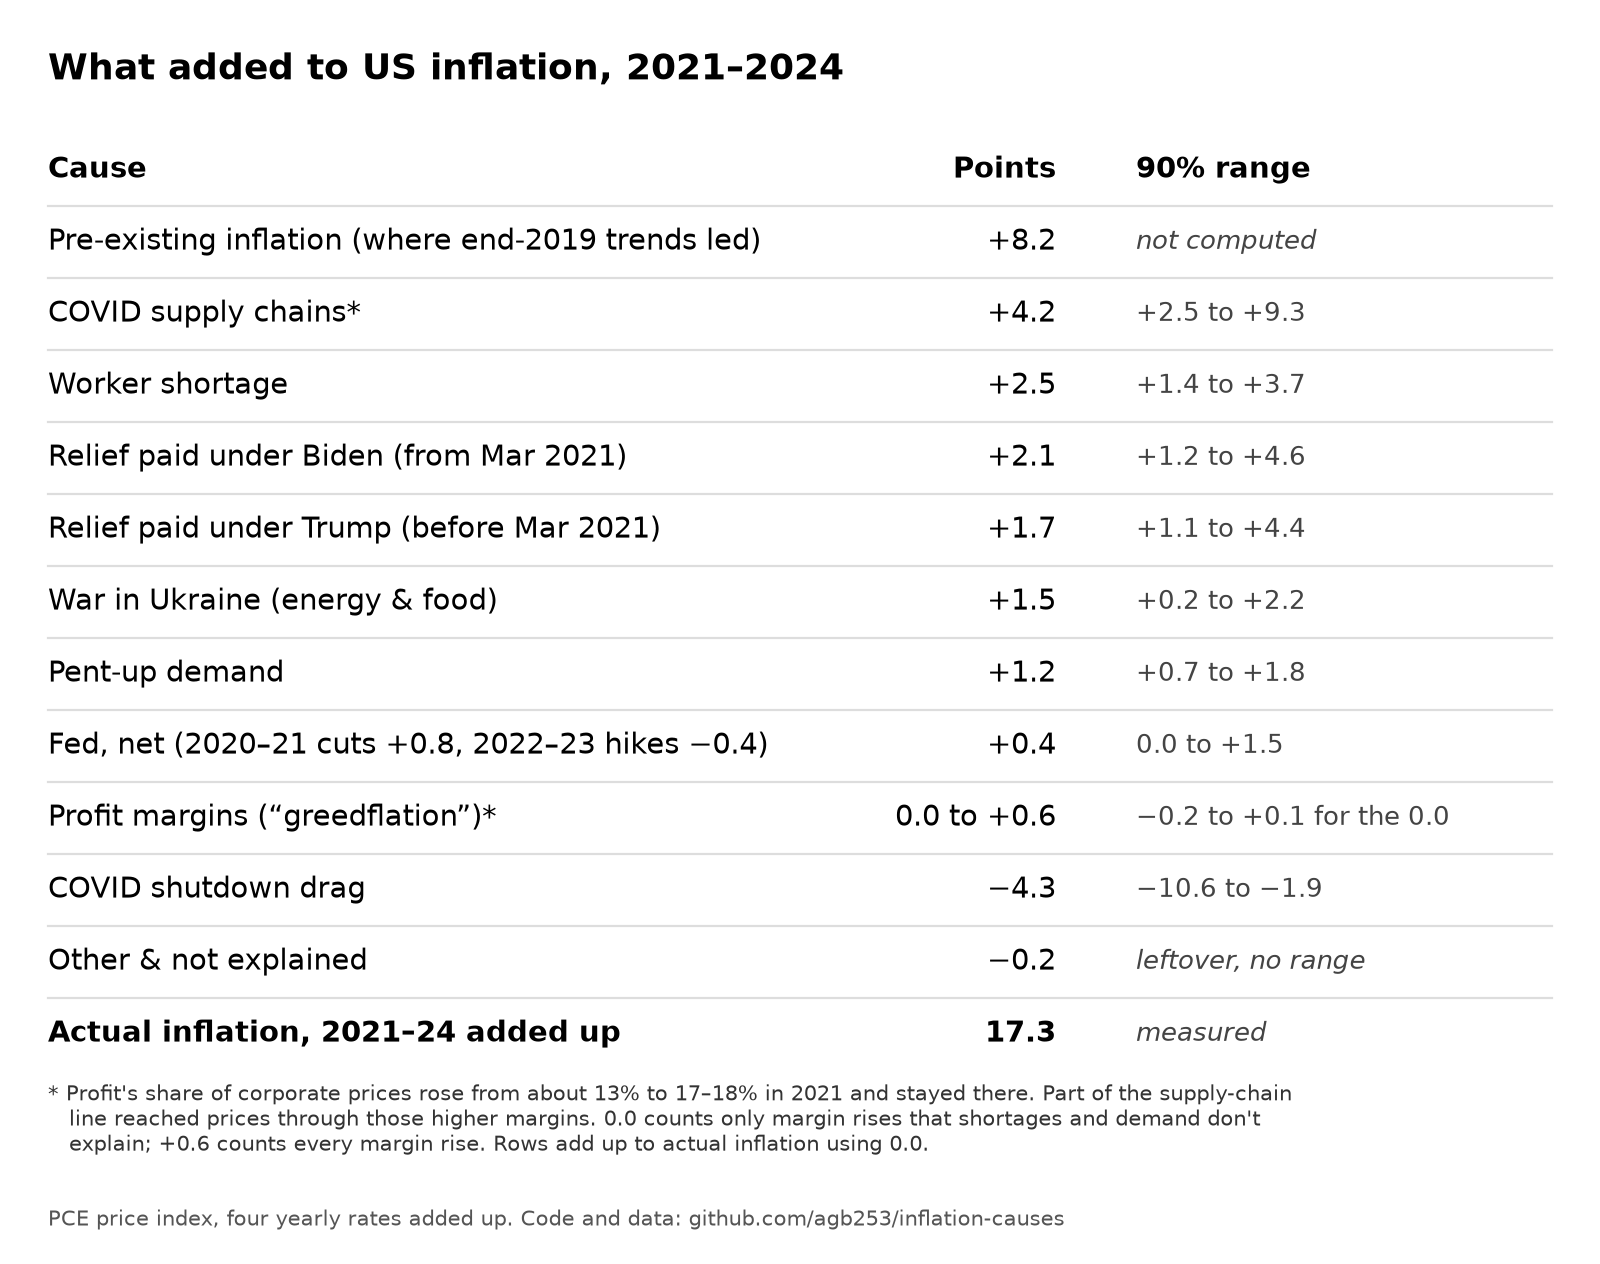
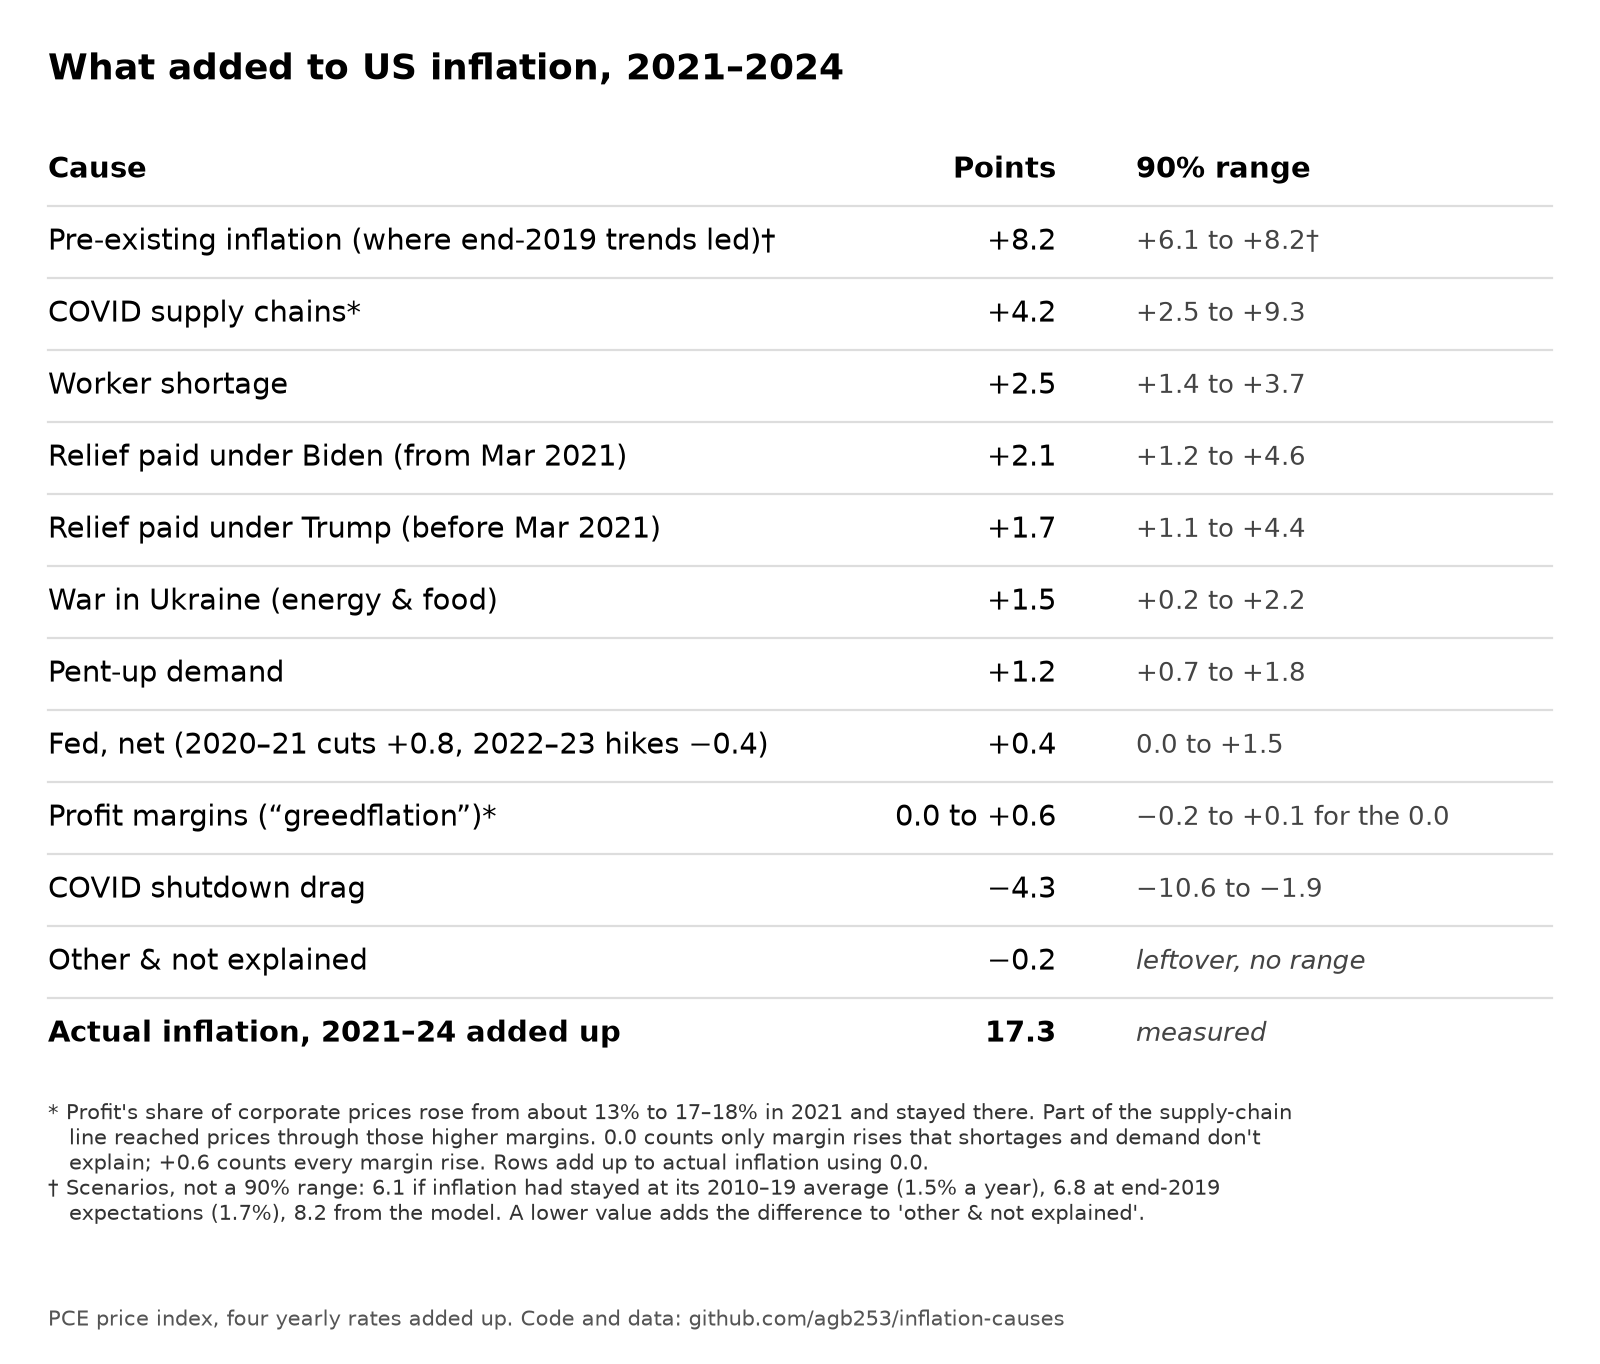
Pre-existing inflation: scenario range 6.1 to 8.2; table image script

diff --git a/docs/index.html b/docs/index.html
@@ -92,7 +92,7 @@ ol.eqs b { font-family: var(--mono); font-weight: 400; }
 <th>2021–24 total</th><th>90% range of total</th><th>Data (Sources #)</th><th>Equations</th></tr></thead><tbody>
 <tr class="key"><th scope=row>Actual PCE inflation</th><td>+1.55</td><td>+0.57</td><td>+1.12</td><td>+1.24</td><td>+1.98</td><td>+3.92</td><td>+4.52</td><td>+5.73</td><td>+6.56</td><td>+6.88</td><td>+6.75</td><td>+6.07</td><td>+5.08</td><td>+3.99</td><td>+3.43</td><td>+2.95</td><td>+2.84</td><td>+2.70</td><td>+2.43</td><td>+2.52</td><td><strong>+17.3</strong></td><td></td><td>1</td><td>E2</td></tr>
 <tr class="key"><th scope=row>Model estimate: the model run on all the actual data (not a sum of the rows below)</th><td>+1.40</td><td>+0.34</td><td>+0.64</td><td>+0.78</td><td>+1.46</td><td>+3.02</td><td>+3.48</td><td>+4.77</td><td>+5.57</td><td>+6.01</td><td>+6.11</td><td>+5.36</td><td>+4.41</td><td>+3.43</td><td>+3.65</td><td>+3.61</td><td>+3.46</td><td>+3.60</td><td>+2.81</td><td>+2.49</td><td><strong>+16.2</strong></td><td></td><td>all below</td><td>E10–E12</td></tr>
-<tr><th scope=row>Pre-existing inflation (end-2019 momentum)</th><td>+1.64</td><td>+1.40</td><td>+1.57</td><td>+1.59</td><td>+1.56</td><td>+1.69</td><td>+1.73</td><td>+1.79</td><td>+1.86</td><td>+1.93</td><td>+1.98</td><td>+2.04</td><td>+2.09</td><td>+2.12</td><td>+2.17</td><td>+2.19</td><td>+2.20</td><td>+2.20</td><td>+2.20</td><td>+2.21</td><td><strong>+8.2</strong></td><td></td><td>11, 13</td><td>E14</td></tr>
+<tr><th scope=row>Pre-existing inflation (end-2019 momentum)</th><td>+1.64</td><td>+1.40</td><td>+1.57</td><td>+1.59</td><td>+1.56</td><td>+1.69</td><td>+1.73</td><td>+1.79</td><td>+1.86</td><td>+1.93</td><td>+1.98</td><td>+2.04</td><td>+2.09</td><td>+2.12</td><td>+2.17</td><td>+2.19</td><td>+2.20</td><td>+2.20</td><td>+2.20</td><td>+2.21</td><td><strong>+8.2</strong></td><td>about +6.1 to +8.2 (scenarios, not a 90% range; see below)</td><td>11, 13</td><td>E14</td></tr>
 <tr><th scope=row>COVID supply chains (part reached prices through higher profit margins)</th><td>+0.01<span class="rg">−0.1 to +0.1</span></td><td>+0.21<span class="rg">+0.0 to +0.4</span></td><td>+0.53<span class="rg">+0.3 to +0.9</span></td><td>+0.72<span class="rg">+0.4 to +1.1</span></td><td>+0.88<span class="rg">+0.5 to +1.4</span></td><td>+1.00<span class="rg">+0.7 to +1.6</span></td><td>+1.06<span class="rg">+0.7 to +1.8</span></td><td>+1.33<span class="rg">+0.9 to +2.3</span></td><td>+1.75<span class="rg">+1.2 to +2.9</span></td><td>+1.89<span class="rg">+1.3 to +3.2</span></td><td>+1.98<span class="rg">+1.3 to +3.4</span></td><td>+1.83<span class="rg">+1.2 to +3.4</span></td><td>+1.55<span class="rg">+1.0 to +3.2</span></td><td>+1.23<span class="rg">+0.7 to +3.0</span></td><td>+0.79<span class="rg">+0.2 to +2.6</span></td><td>+0.56<span class="rg">−0.1 to +2.4</span></td><td>+0.39<span class="rg">−0.3 to +2.2</span></td><td>+0.36<span class="rg">−0.2 to +2.0</span></td><td>+0.41<span class="rg">−0.1 to +2.0</span></td><td>+0.48<span class="rg">+0.0 to +2.0</span></td><td><strong>+4.2</strong></td><td>+2.5 to +9.3</td><td>10</td><td>E11</td></tr>
 <tr><th scope=row>War in Ukraine (energy & food, Jan 2022–Mar 2023, plus knock-on)</th><td>0.00<span class="rg">+0.0 to +0.0</span></td><td>0.00<span class="rg">+0.0 to +0.0</span></td><td>0.00<span class="rg">+0.0 to +0.0</span></td><td>0.00<span class="rg">+0.0 to +0.0</span></td><td>0.00<span class="rg">+0.0 to +0.0</span></td><td>0.00<span class="rg">+0.0 to +0.0</span></td><td>0.00<span class="rg">+0.0 to +0.0</span></td><td>0.00<span class="rg">+0.0 to +0.0</span></td><td>+0.49<span class="rg">+0.4 to +0.6</span></td><td>+1.13<span class="rg">+1.0 to +1.3</span></td><td>+0.95<span class="rg">+0.7 to +1.2</span></td><td>+0.83<span class="rg">+0.5 to +1.1</span></td><td>+0.18<span class="rg">−0.2 to +0.5</span></td><td>−0.37<span class="rg">−0.9 to −0.0</span></td><td>−0.03<span class="rg">−0.6 to +0.4</span></td><td>+0.23<span class="rg">−0.3 to +0.6</span></td><td>+0.50<span class="rg">−0.0 to +0.8</span></td><td>+0.53<span class="rg">+0.1 to +0.8</span></td><td>+0.47<span class="rg">+0.1 to +0.7</span></td><td>+0.42<span class="rg">+0.1 to +0.7</span></td><td><strong>+1.5</strong></td><td>+0.2 to +2.2</td><td>1</td><td>E11</td></tr>
 <tr><th scope=row>Worker shortage</th><td>0.00<span class="rg">+0.0 to +0.0</span></td><td>−0.01<span class="rg">−0.0 to −0.0</span></td><td>+0.15<span class="rg">+0.0 to +0.3</span></td><td>+0.36<span class="rg">+0.1 to +0.5</span></td><td>+0.43<span class="rg">+0.2 to +0.5</span></td><td>+0.41<span class="rg">+0.1 to +0.5</span></td><td>+0.37<span class="rg">+0.1 to +0.5</span></td><td>+0.50<span class="rg">+0.2 to +0.7</span></td><td>+0.61<span class="rg">+0.3 to +0.8</span></td><td>+0.81<span class="rg">+0.4 to +1.1</span></td><td>+0.94<span class="rg">+0.5 to +1.2</span></td><td>+0.81<span class="rg">+0.4 to +1.1</span></td><td>+0.80<span class="rg">+0.4 to +1.1</span></td><td>+0.81<span class="rg">+0.4 to +1.2</span></td><td>+0.74<span class="rg">+0.4 to +1.1</span></td><td>+0.68<span class="rg">+0.4 to +1.1</span></td><td>+0.65<span class="rg">+0.4 to +1.1</span></td><td>+0.63<span class="rg">+0.4 to +1.1</span></td><td>+0.58<span class="rg">+0.3 to +1.0</span></td><td>+0.54<span class="rg">+0.3 to +1.0</span></td><td><strong>+2.5</strong></td><td>+1.4 to +3.7</td><td>11, 13</td><td>E9, E10</td></tr>
@@ -381,6 +381,7 @@ ol.eqs b { font-family: var(--mono); font-weight: 400; }
 
 <h3 id="pre-existing">Pre-existing inflation, and other &amp; not explained</h3>
 <p>Pre-existing is not an assumed 2%. It is what the model's own equations predict if nothing new had happened after 2019: the job market stays as tight as it was at the end of 2019 (1.19 job openings per unemployed worker), there is no relief, no Fed move, no lockdown, energy and food prices move in step with wages, and supply-chain pressure and productivity growth sit at their pre-2020 averages. Starting from where inflation and expected inflation actually stood at the end of 2019, that path runs from 1.6% in early 2020 to 1.8% in 2021, 2.0% in 2022, and 2.2% in 2023 and 2024: 8.2 points over 2021–24. Inflation was 1.5% at the start of 2020, so if you think the right starting point is to hold it at 1.5% a year (6.0 points), about 2 more points would move into “other &amp; not explained”. No cause's line would change.</p>
+<p><strong>A range for this line.</strong> I haven't computed a statistical range for it, but three reasonable starting points bound it. PCE inflation averaged 1.5% a year over 2010–2019, which gives about 6.1 points over four years. The model's own 1- and 10-year inflation-expectation series both stood at about 1.7% at the end of 2019, which gives about 6.8. The model's equations give 8.2, close to the Fed's 2% target (8.0), because the job market was tight at the end of 2019. So read this line as about +6.1 to +8.2, with the model at the top. A lower line would add the difference to “other &amp; not explained”, not to any cause.</p>
 <p>“Other &amp; not explained” is the gap between the model and actual inflation (largest: 1.0 point in a quarter), plus the energy and food shocks after March 2023 and productivity swings.</p>
 
 <h2>Did the Fed act too late?</h2>

diff --git a/src/make_medium_table.py b/src/make_medium_table.py
@@ -1,0 +1,33 @@
+"""Table image for the Medium version (docs/medium_table.png): 2021-24 totals from the article's chart table."""
+import pathlib; ROOT = str(pathlib.Path(__file__).resolve().parent.parent)
+import matplotlib; matplotlib.use("Agg")
+import matplotlib.pyplot as plt
+rows = [("Pre-existing inflation (where end-2019 trends led)†", "+8.2", "+6.1 to +8.2†"),
+        ("COVID supply chains*", "+4.2", "+2.5 to +9.3"), ("Worker shortage", "+2.5", "+1.4 to +3.7"),
+        ("Relief paid under Biden (from Mar 2021)", "+2.1", "+1.2 to +4.6"), ("Relief paid under Trump (before Mar 2021)", "+1.7", "+1.1 to +4.4"),
+        ("War in Ukraine (energy & food)", "+1.5", "+0.2 to +2.2"), ("Pent-up demand", "+1.2", "+0.7 to +1.8"),
+        ("Fed, net (2020–21 cuts +0.8, 2022–23 hikes −0.4)", "+0.4", "0.0 to +1.5"),
+        ("Profit margins (“greedflation”)*", "0.0 to +0.6", "−0.2 to +0.1 for the 0.0"),
+        ("COVID shutdown drag", "−4.3", "−10.6 to −1.9"),
+        ("Other & not explained", "−0.2", "leftover, no range"), ("Actual inflation, 2021–24 added up", "17.3", "measured")]
+NOTE = ("* Profit's share of corporate prices rose from about 13% to 17–18% in 2021 and stayed there. Part of the supply-chain\n"
+        "   line reached prices through those higher margins. 0.0 counts only margin rises that shortages and demand don't\n"
+        "   explain; +0.6 counts every margin rise. Rows add up to actual inflation using 0.0.\n"
+        "† Scenarios, not a 90% range: 6.1 if inflation had stayed at its 2010–19 average (1.5% a year), 6.8 at end-2019\n"
+        "   expectations (1.7%), 8.2 from the model. A lower value adds the difference to 'other & not explained'.")
+n = len(rows); H = 0.36 * n + 2.5
+fig = plt.figure(figsize=(8, H), dpi=200); ax = fig.add_axes([0, 0, 1, 1]); ax.axis("off")
+y = lambda i: 1 - (0.85 + 0.36 * i) / H
+ax.text(0.03, 1 - 0.35 / H, "What added to US inflation, 2021–2024", fontsize=13, weight="bold", va="center")
+for x, s, ha in [(0.03, "Cause", "left"), (0.66, "Points", "right"), (0.71, "90% range", "left")]:
+    ax.text(x, y(0), s, weight="bold", fontsize=10.5, va="center", ha=ha)
+for i, (a, b, c) in enumerate(rows, 1):
+    w = "bold" if i == n else "normal"; it = "italic" if c in ("leftover, no range", "measured") else "normal"
+    ax.text(0.03, y(i), a, fontsize=10.5, va="center", weight=w)
+    ax.text(0.66, y(i), b, fontsize=10.5, va="center", ha="right", weight=w)
+    ax.text(0.71, y(i), c, fontsize=9.5, va="center", color="#444", style=it)
+    ax.plot([0.03, 0.97], [y(i) + 0.18 / H] * 2, color="#ddd", lw=0.8)
+ax.text(0.03, 1.0 / H, NOTE, fontsize=7.5, color="#333", va="center")
+ax.text(0.03, 0.22 / H, "PCE price index, four yearly rates added up. Code and data: github.com/agb253/inflation-causes", fontsize=7.5, color="#555", va="center")
+ax.set_xlim(0, 1); ax.set_ylim(0, 1)
+plt.savefig(ROOT + "/docs/medium_table.png", facecolor="white")
